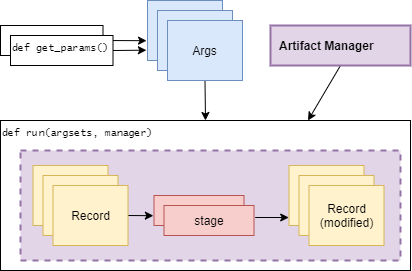
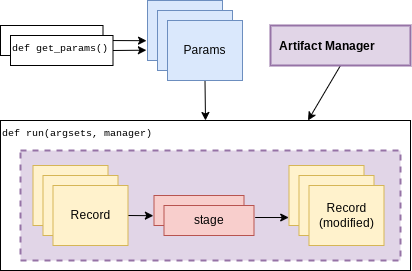
Finish updating getting_started

diff --git a/curifactory/hashing.py b/curifactory/hashing.py
@@ -83,12 +83,14 @@ def get_parameter_hash_value(param_set, param_name: str) -> tuple[str, Any]:
     it attempts to use to get a hashable representation of the parameter in order are:
 
     1. Skip any blacklisted internal curifactory parameters that shouldn't affect the hash.
+        This includes `name`, `hash`, `overwrite`, and the `hash_representations` attribute
+        itself.
     2. If the value of the parameter is ``None``, skip it. This allows default-ignoring
         new parameters.
     3. If there's an associated hashing function in ``hash_representations``, call that,
         passing in the entire parameter set and the current value of the parameter to
         be hashed
-    4. If a parameter is another dataclass, recursively ``hash_paramset`` on it.
+    4. If a parameter is another dataclass, recursively ``get_paramset_hash_values`` on it.
         Note that if this is unintended functionality, and you need the default
         dataclass ``repr`` for any reason, you can override it with the following:
 

diff --git a/sphinx/source/getting_started.rst b/sphinx/source/getting_started.rst
@@ -633,7 +633,7 @@ along with a fully initialized :code:`ArtifactManager`.
     :align: center
 
 These mechanics provide a methodical way of creating curifactory-based runnables
-for a research project, and are what allows curifactory to inject all its features into
+for a research project, and are what allows curifactory to inject its features into
 each experiment run (e.g. automatic logging, reporting, and a single
 CLI interface for interacting with the experiment runs.)
 
@@ -648,14 +648,14 @@ established with the :code:`curifactory init` command, by default this is a fold
 the project root :code:`experiments/`, see :ref:`configuration and directory structure`).
 
 Experiment scripts must implement the aforementioned :code:`run()` function, which takes
-a list of :code:`ExperimentArgs` subclass instances and an :code:`ArtifactManager`:
+a list of :code:`ExperimentParameters` subclass instances and an :code:`ArtifactManager`:
 
 .. code-block:: python
 
     from typing import List
     import curifactory as cf
 
-    def run(argsets: List[cf.ExperimentArgs], manager: cf.ArtifactManager):
+    def run(param_sets: List[cf.ExperimentParameters], manager: cf.ArtifactManager):
         # 1. make records
         # 2. run stages
         # 3. ???
@@ -683,15 +683,15 @@ example experiment setup with some stages might look like:
     def test_models(record, records):
         # ...
 
-    def run(argsets, manager):
-        for argset in argsets:
-            record = cf.Record(manager, argset)
+    def run(param_sets, manager):
+        for param_set in param_sets:
+            record = cf.Record(manager, param_set)
             train_model(load_data(record))
 
         test_models(cf.Record(manager, None))
 
-We can add in the args dataclass that the stages need, and then make a basic
-:code:`get_params()` function to give us some argsets to compare a logistic
+We can add in the parameters class that the stages need, and then make a basic
+:code:`get_params()` function to give us some parameter sets to compare a logistic
 regression model versus a random forest classifier.
 
 .. code-block:: python
@@ -705,7 +705,7 @@ regression model versus a random forest classifier.
     from curifactory.caching import PickleCacher, JsonCacher
 
     @dataclass
-    class Args(cf.ExperimentArgs):
+    class Params(cf.ExperimentParameters):
         balanced: bool = False
         """Whether class weights should be balanced or not."""
         n: int = 100
@@ -717,17 +717,17 @@ regression model versus a random forest classifier.
 
     def get_params():
         return [
-            Args(name="simple_lr", balanced=True, model_type=LogisticRegression, seed=1),
-            Args(name="simple_rf", model_type=RandomForestClassifier, seed=1),
+            Params(name="simple_lr", balanced=True, model_type=LogisticRegression, seed=1),
+            Params(name="simple_rf", model_type=RandomForestClassifier, seed=1),
         ]
 
     # ...
     # stages
     # ...
 
-    def run(argsets, manager):
-        for argset in argsets:
-            record = cf.Record(manager, argset)
+    def run(param_sets, manager):
+        for param_set in param_sets:
+            record = cf.Record(manager, param_set)
             train_model(load_data(record))
 
         test_models(cf.Record(manager, None))
@@ -793,12 +793,12 @@ Parameter files
 
 As shown so far, for simplicity, experiments can have their own
 :code:`get_params()` function. However, frequently you may want to define multiple
-different sets of parameters and selectively include them in an experiment, or
+different collections of parameter sets and selectively include them in an experiment, or
 define sets that could be shared across multiple experiment scripts. One option
 is to simply explicitly refer to a previous experiment file that has the
 :code:`get_params()` you want, e.g. with :code:`experiment iris_updated -p iris`.
 
-The other option is to create separate parameter scripts, or distinct files in the
+The other option is to create separate parameter files, or distinct files in the
 params module path, (by default :code:`params/` in the project root.) These
 files should each contain a :code:`get_params()` function.
 
@@ -809,14 +809,14 @@ Importantly, you can specify multiple :code:`-p` flags to the experiment CLI, li
     experiment iris -p params_file1 -p params_file2 -p iris
 
 This will call the :code:`get_params()` of every requested parameters file (and/or experiment
-file) and combine all returned argument sets into a single list that gets passed
+file) and combine all returned parameter sets into a single list that gets passed
 into the experiment's :code:`run()`.
 
 
 .. figure:: images/curifactory_overview_simpler.png
     :align: center
 
-    Creating distinct parameters files allows for structuring shared argument sets
+    Creating distinct parameters files allows for structuring shared parameter sets
     to apply across experiments
 
 Organization of growing projects
@@ -839,10 +839,10 @@ Lacking any additional constraints, some ideas for use include:
 * Stages can either be directly in the research codebase wrapping research functions, or
   they can remain separated and just make the appropriate calls into your
   codebase, parameterized with relevant args.
-* Keeping all arguments commonly used by all experiments can be kept in
-  :code:`params/__init__.py`. If there are stages/args relevant only to a single
+* Keeping all parameters commonly used by all experiments can be kept in
+  :code:`params/__init__.py`. If there are stages/params relevant only to a single
   experiment, these can be kept in the experiment file, and extracted out later
-  if they become more generally useful. (A :code:`params.__init__.Args` class
+  if they become more generally useful. (A :code:`params.__init__.Params` class
   could be further subclassed in an experiment file to get the benefit of both.)
 * Common stage sequences can be simplified and extracted into a helper file,
   e.g. by defining a function that takes a record, calls the stages, and returns
@@ -862,7 +862,7 @@ Look through:
 
 * :ref:`Components` for a more in-depth understanding of the components and how they
   interact with each other.
-* :ref:`Parameter files and argsets` for fancier things you can do with parameters.
+* :ref:`Parameter files and parameter sets` for fancier things you can do with parameters.
 * :ref:`Cache` for how to make custom cachers.
 * :ref:`Reports` to get an idea for how reports work and how to use them, plus how
   to make custom reportables.

diff --git a/sphinx/source/parameters.rst b/sphinx/source/parameters.rst
@@ -1,5 +1,5 @@
-Parameter files and argsets
-===========================
+Parameter files and parameter sets
+==================================
 
 Another goal of Curifactory is to allow effective parameterization of experiments. Where this might normally be
 done with a json or yaml file, Curifactory directly uses python files for experiment parameterization/configuration.
